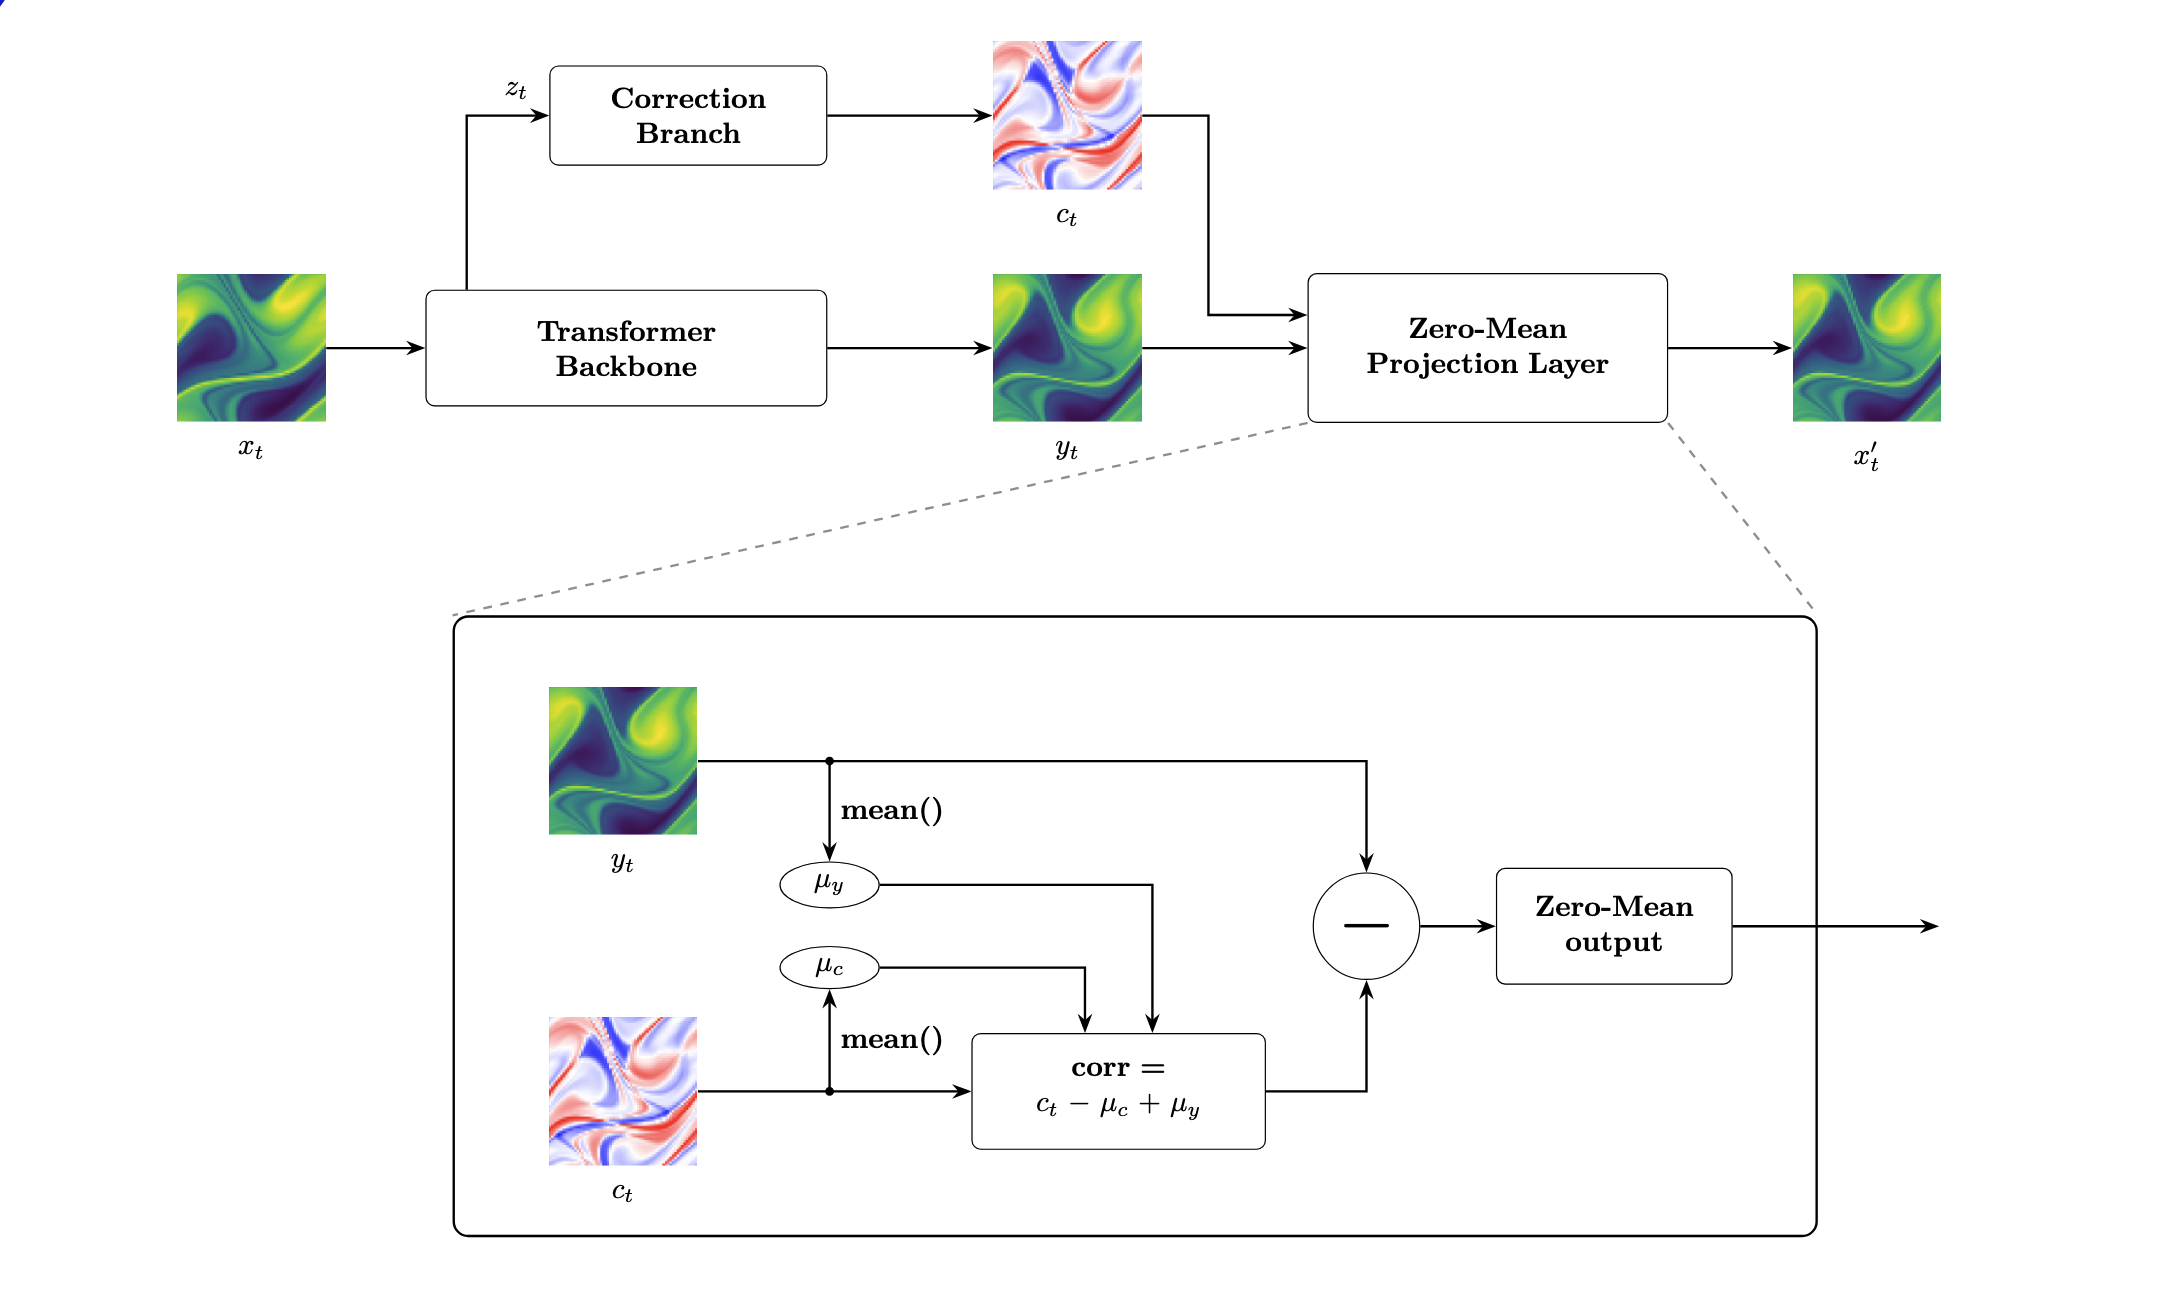
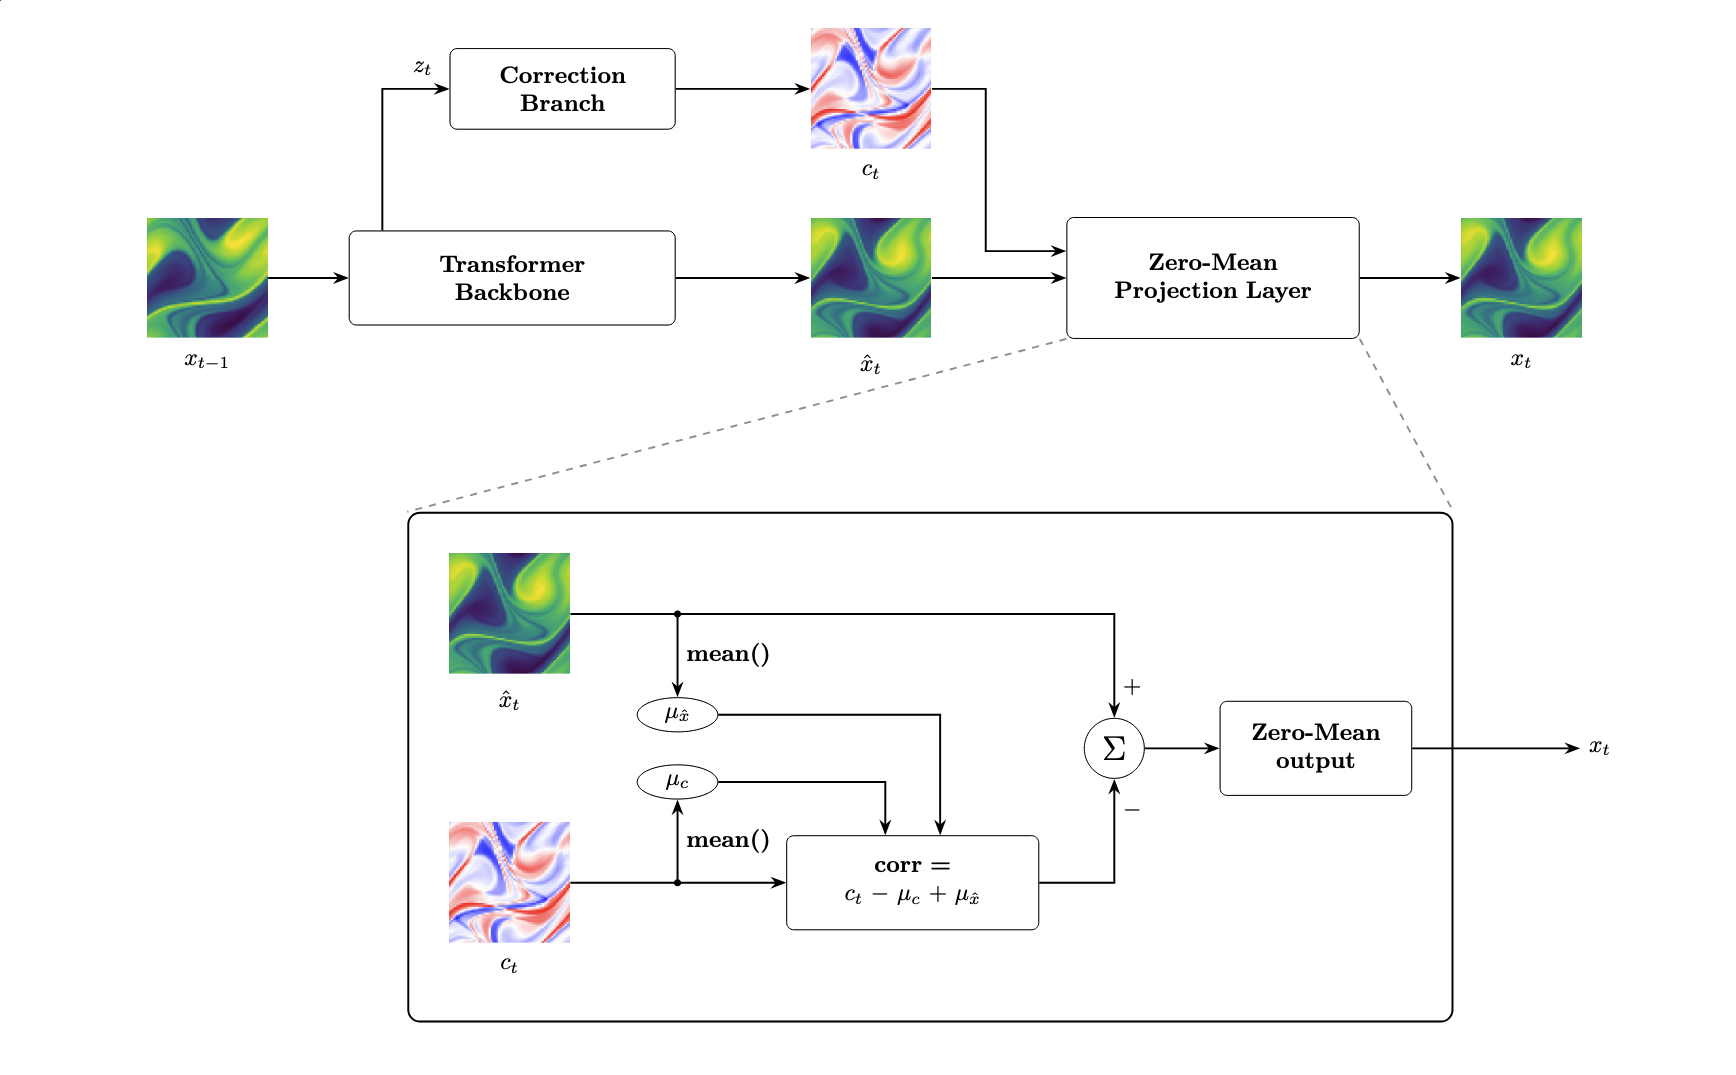
fix: better notation

diff --git a/README.md b/README.md
@@ -24,7 +24,7 @@ $$\int w(x,y)dxdy=c \quad (c=0 \text{ in our case})$$
 a vanilla model can learn accurate flow predictions, but the predicted global vorticity does not have to be constant.
 ![global v](images/predicted_global_v%20.png)
 
-We implement a correction branch that goes in parallel with the prediction head (original backbone) of the model. It takes a latent representation of the input ($z_t$) and predicts an offset map ($c_t$) that corrects the output of the original prediction ($y_t$). 
+We implement a correction branch that goes in parallel with the prediction head (original backbone) of the model. It takes a latent representation of the input ($z_t$) and predicts an offset map ($c_t$) that corrects the output of the original prediction ($\hat{x}_{t}$). 
 
 ```python
 # CH is the correction head
